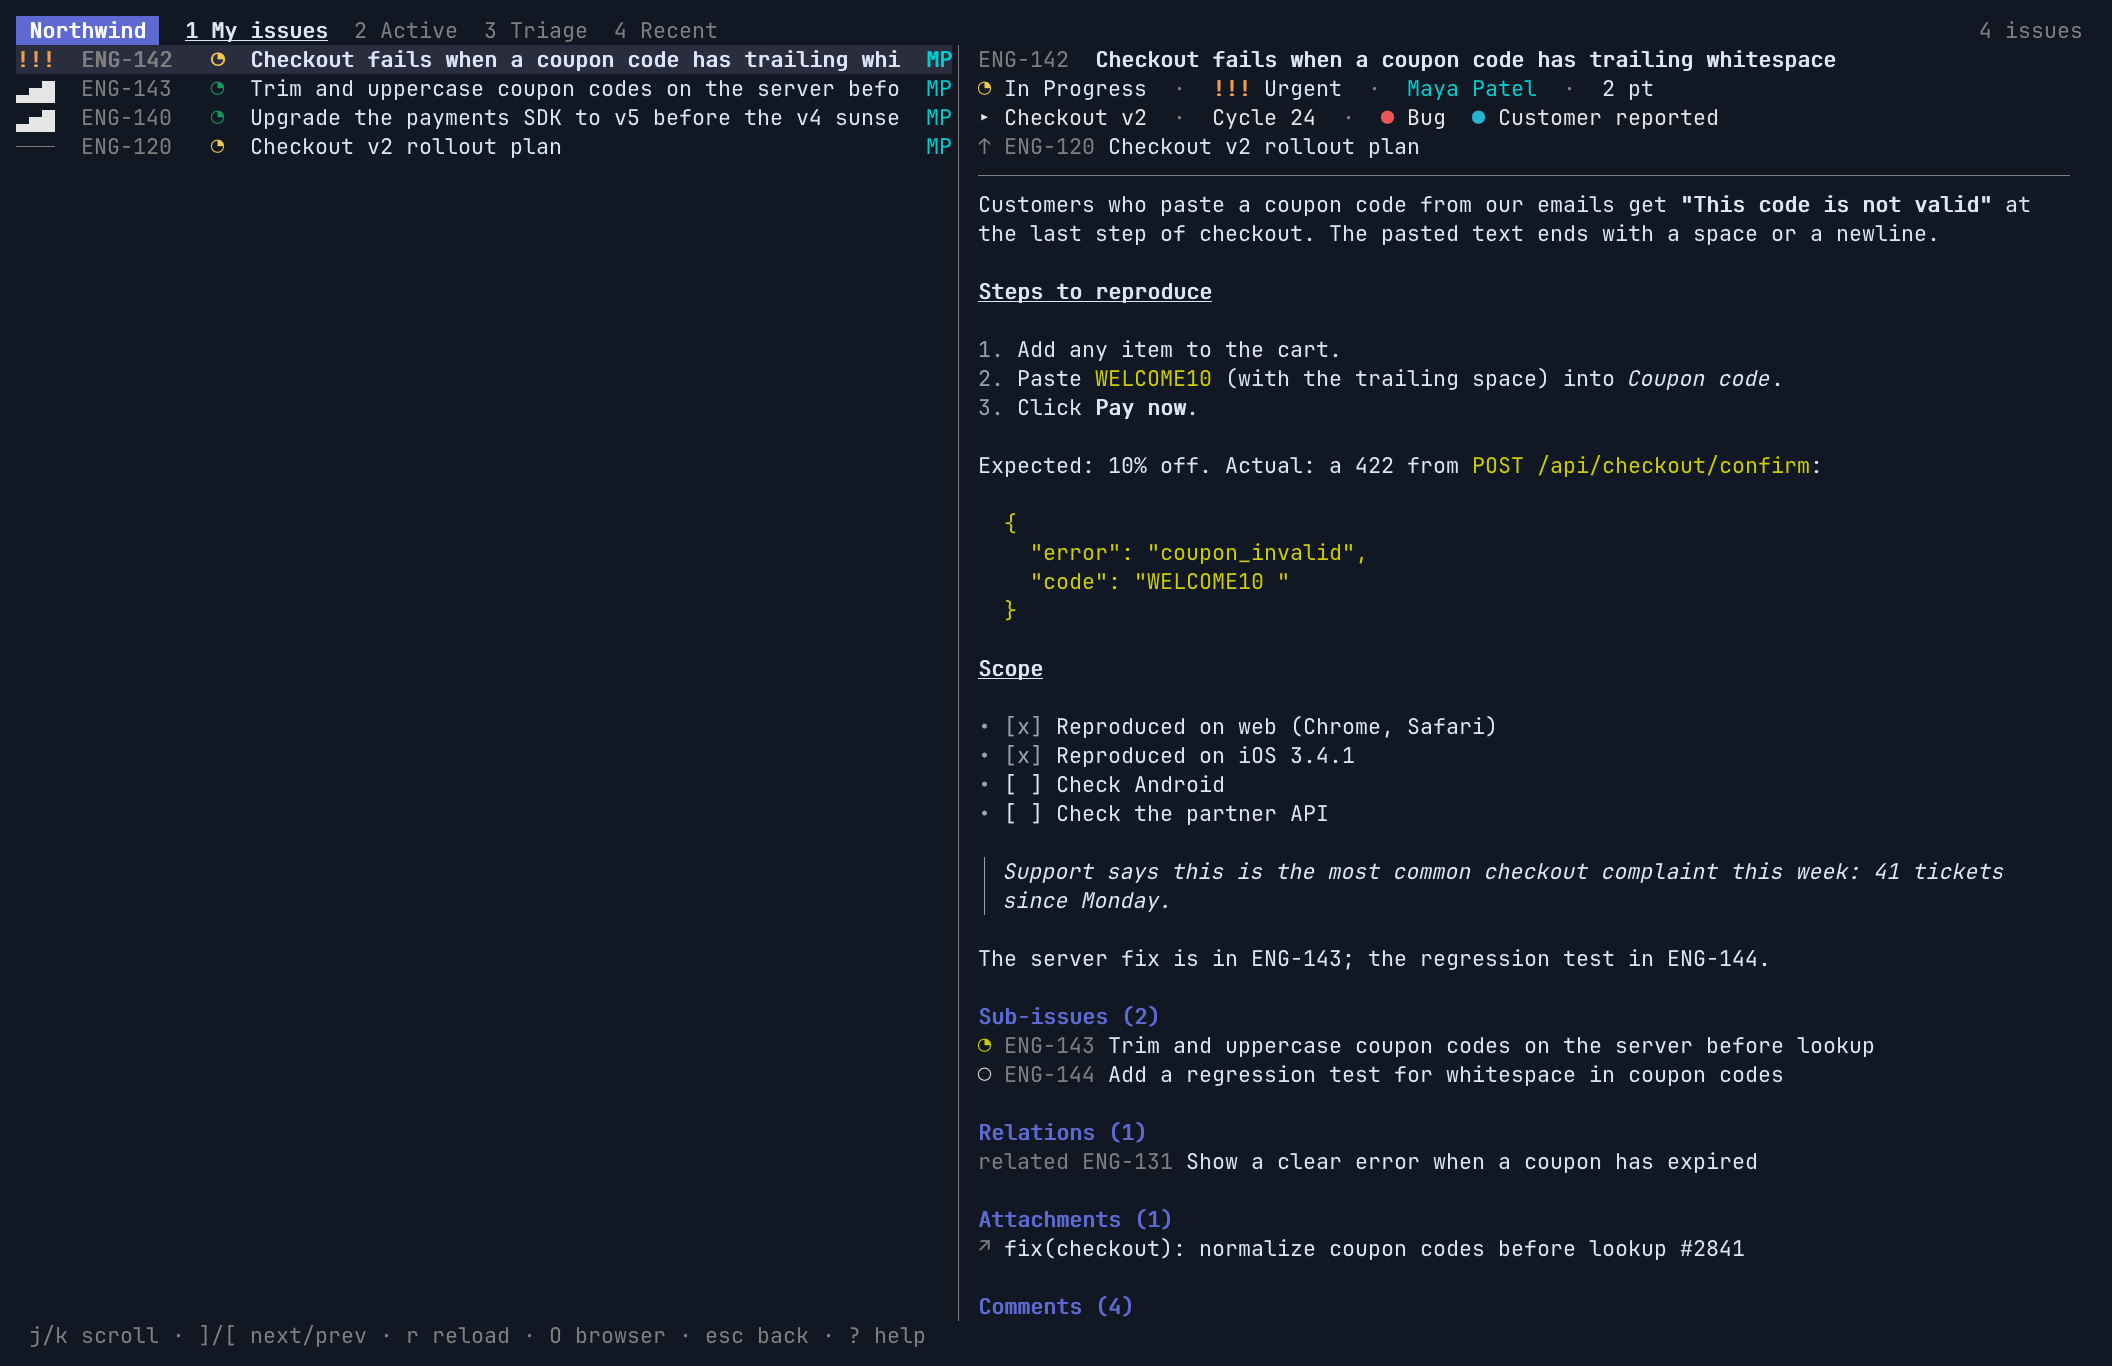
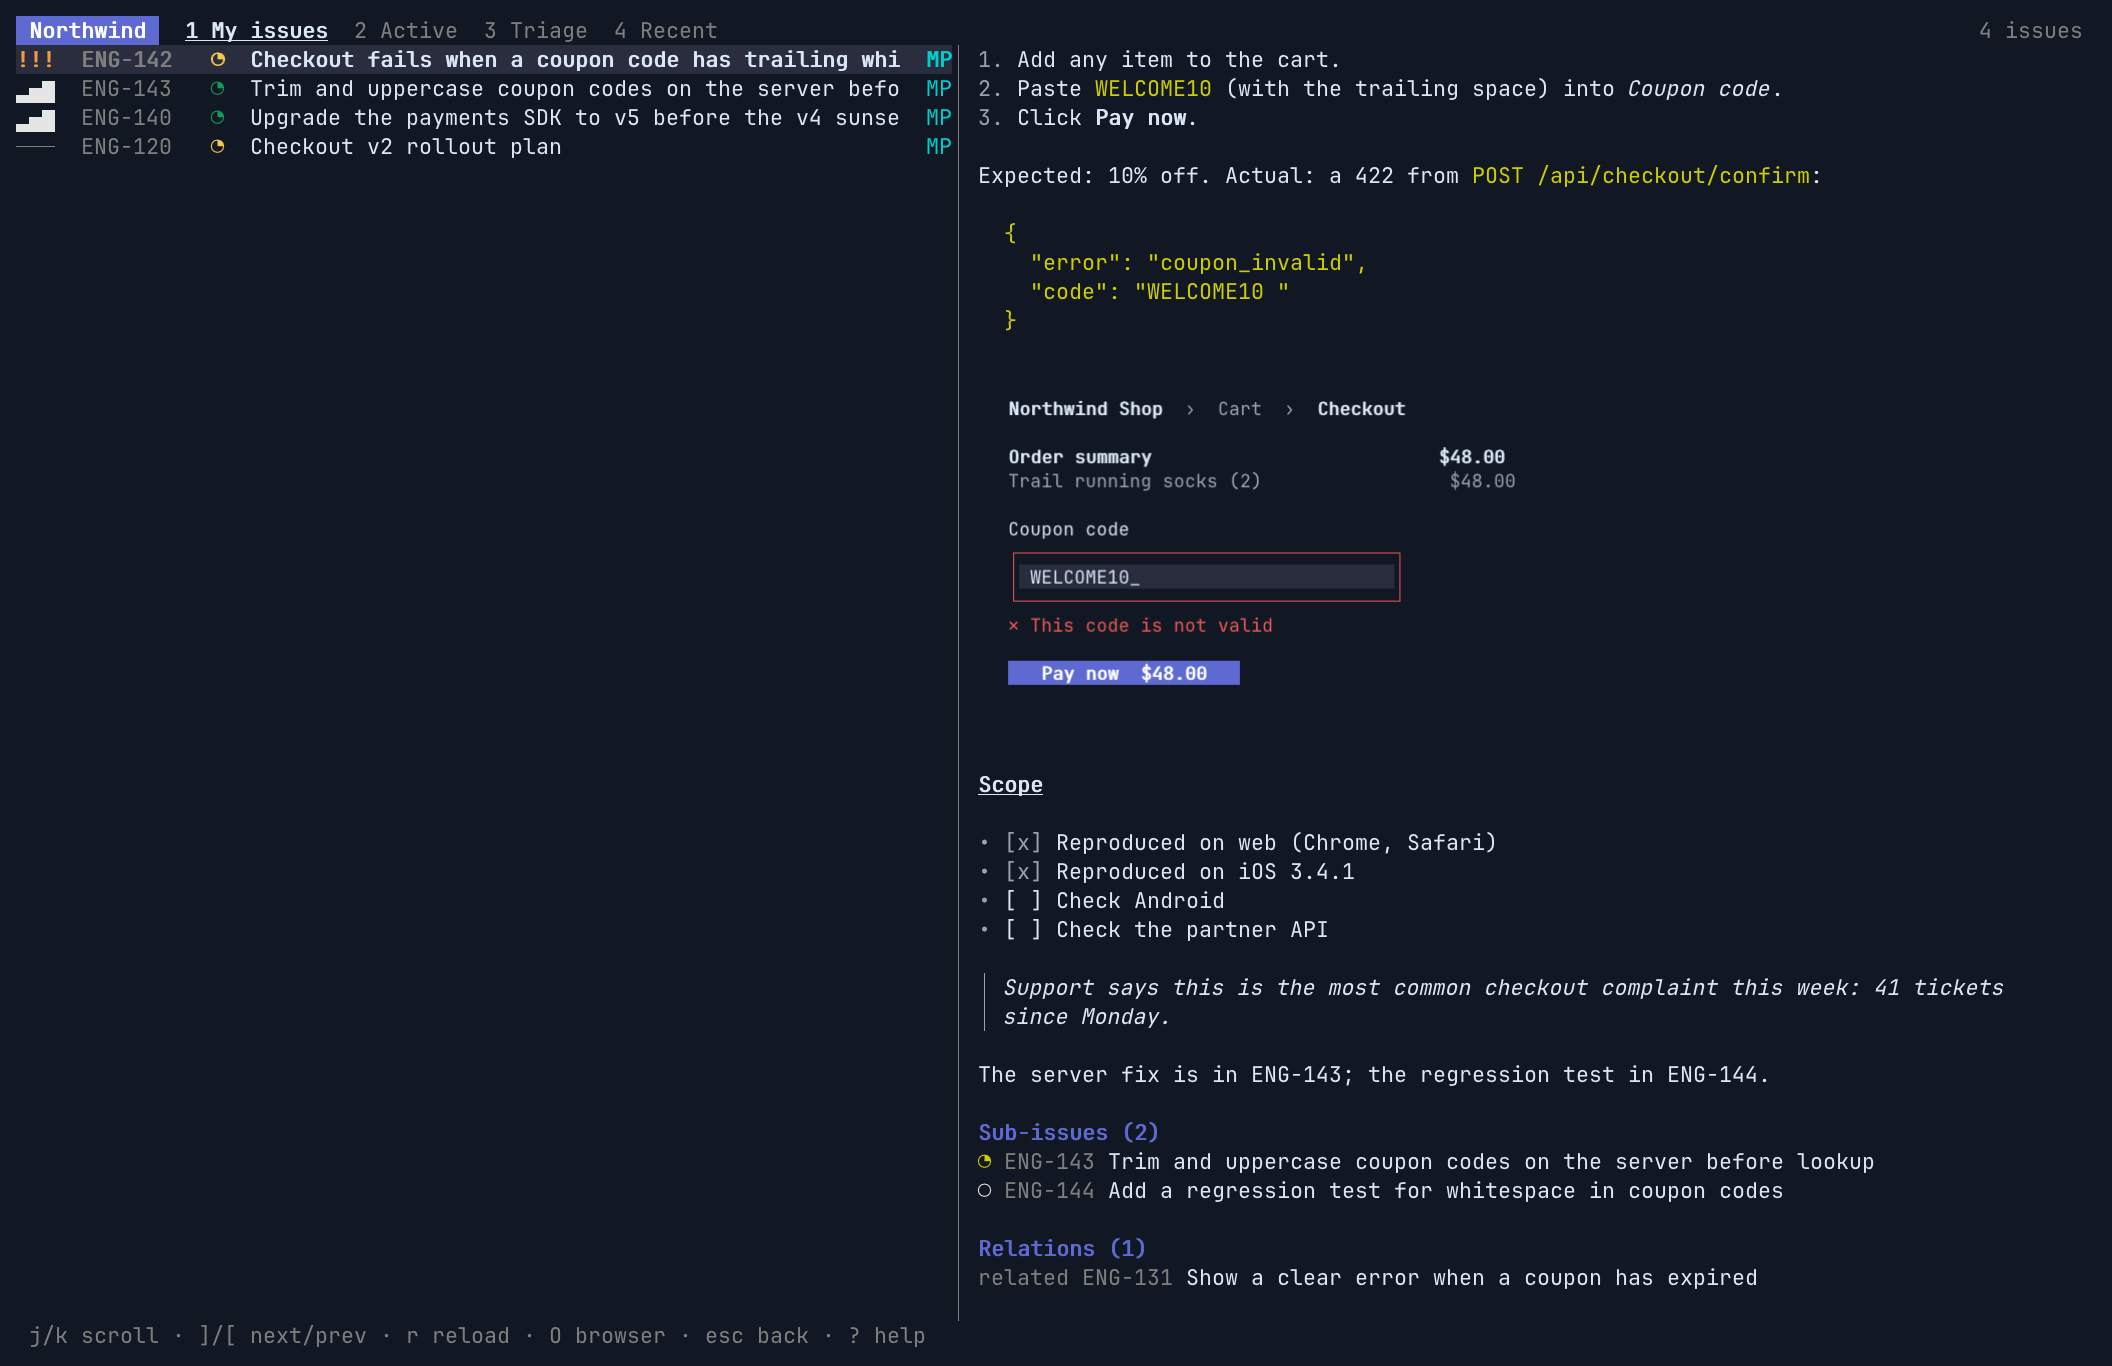
Screenshots with real inline images
scripts/screenshots.sh now records what linear-tui writes through
tmux pipe-pane, with images sent as kitty graphics at termshot's cell
size, and renders the log with termshot, so the detail shot shows the
demo upload drawn inline.

diff --git a/README.md b/README.md
@@ -12,7 +12,7 @@ API key and never calls api.linear.app: every read and write is a
 [`linearctl`](https://github.com/solcreek/linear-cli) `--json` call, so anything
 a person does here an agent can do with the CLI.
 
-![linear-tui showing the issue list beside an open issue: its Markdown description with steps to reproduce, a JSON code block, a checklist and a quote, then sub-issues, relations and attachments](docs/images/detail.png)
+![linear-tui showing the issue list beside an open issue: steps to reproduce, a JSON code block, the uploaded screenshot of the checkout error drawn inline, a checklist, a quote and sub-issues](docs/images/detail.png)
 
 <sub>The demo workspace (`--demo`): Northwind, its people and its issues are fictional.
 Rendered with [termshot](https://github.com/momiji-rs/termshot) by
@@ -21,8 +21,9 @@ Rendered with [termshot](https://github.com/momiji-rs/termshot) by
 ## Status
 
 Early and read-only: the issue list with views, paging and a filter, and the
-issue detail with Markdown, sub-issues, relations, attachments and threaded
-comments. Images, search, and writes (create, edit, comment) come next; see
+issue detail with Markdown, inline images (kitty, Sixel, iTerm2 or half
+blocks), sub-issues, relations, attachments and threaded comments. Search and
+writes (create, edit, comment) come next; see
 [docs/design.md](docs/design.md) for the whole plan. The npm package
 `linear-tui` is a name placeholder until the first release.
 
@@ -65,5 +66,5 @@ With Homebrew's Rust (no rustup `llvm-tools`), point cargo-llvm-cov at the
 matching LLVM: `LLVM_COV=$(brew --prefix llvm@22)/bin/llvm-cov`
 `LLVM_PROFDATA=$(brew --prefix llvm@22)/bin/llvm-profdata`.
 
-Screenshots: `scripts/screenshots.sh` drives `--demo` in tmux and renders the
-panes with termshot (`TERMSHOT=/path/to/termshot` if it is not on `PATH`).
+Screenshots: `scripts/screenshots.sh` drives `--demo` in tmux, records what it
+writes (kitty graphics included) and renders that with termshot (`TERMSHOT=/path/to/termshot` if it is not on `PATH`).
